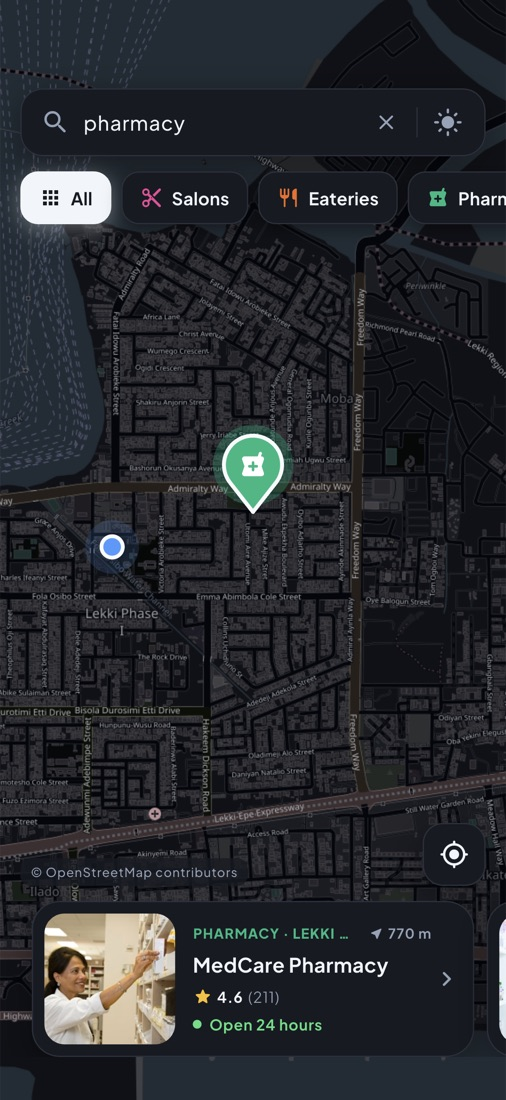
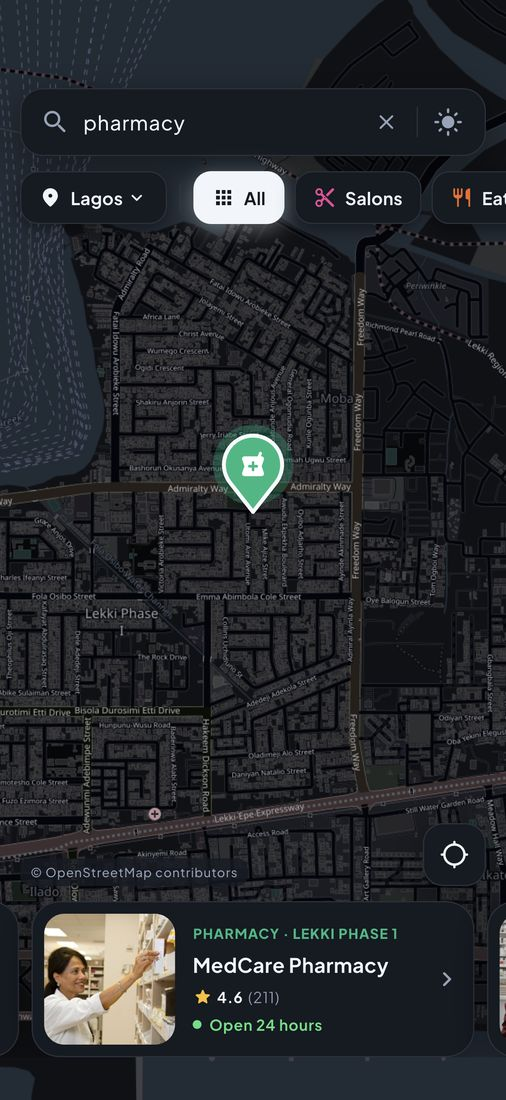
Refresh README screenshots for cities and the splash-era UI
- All screenshots retaken from the integration run, plus the city
  picker and Abuja
- Integration flow captures the city picker before flying to Abuja

diff --git a/integration_test/app_flow_test.dart b/integration_test/app_flow_test.dart
@@ -106,9 +106,10 @@ void main() {
     await wait(tester);
     await tester.tap(find.text('Lagos'));
     await wait(tester);
+    await shot(tester, '11-city-picker-dark');
     await tester.tap(find.text('Abuja'));
     await wait(tester, 4000);
     expect(find.text('42 places in Abuja'), findsOneWidget);
-    await shot(tester, '11-abuja-dark');
+    await shot(tester, '12-abuja-dark');
   });
 }

diff --git a/README.md b/README.md
@@ -4,9 +4,9 @@ Find salons, eateries, pharmacies, cafés, supermarkets and gyms in Lagos and Ab
 
 Spotly opens on a map centred on you, in whichever of the two cities you're in. You can search in plain words ("saloon", "jollof", "chemist") or tap a category, and each result shows up as a pin in its category's colour. Tap a pin to preview the place, then open the preview for full details: photos, opening hours, directions, call and share. The whole app has light and dark themes, including the map.
 
-| Map | Preview | Details | Dark mode |
-| --- | --- | --- | --- |
-| ![Map](docs/screenshots/01-map-light.jpg) | ![Preview](docs/screenshots/03-preview.jpg) | ![Details](docs/screenshots/04-details.jpg) | ![Dark](docs/screenshots/07-preview-dark.jpg) |
+| Map | Preview | Details | Cities | Abuja, dark |
+| --- | --- | --- | --- | --- |
+| ![Map](docs/screenshots/01-map-light.jpg) | ![Preview](docs/screenshots/03-preview.jpg) | ![Details](docs/screenshots/04-details.jpg) | ![City picker](docs/screenshots/11-city-picker-dark.jpg) | ![Abuja](docs/screenshots/12-abuja-dark.jpg) |
 
 ## Running it
 
@@ -22,7 +22,8 @@ flutter test          # unit and widget tests
 flutter analyze       # strict lints, zero issues
 
 # End-to-end on a simulator/emulator. Walks through search, preview,
-# details and dark mode, and writes screenshots to screenshots/
+# details, dark mode and switching to Abuja, and writes screenshots to
+# screenshots/
 flutter drive --driver=test_driver/integration_test.dart \
   --target=integration_test/app_flow_test.dart
 ```
